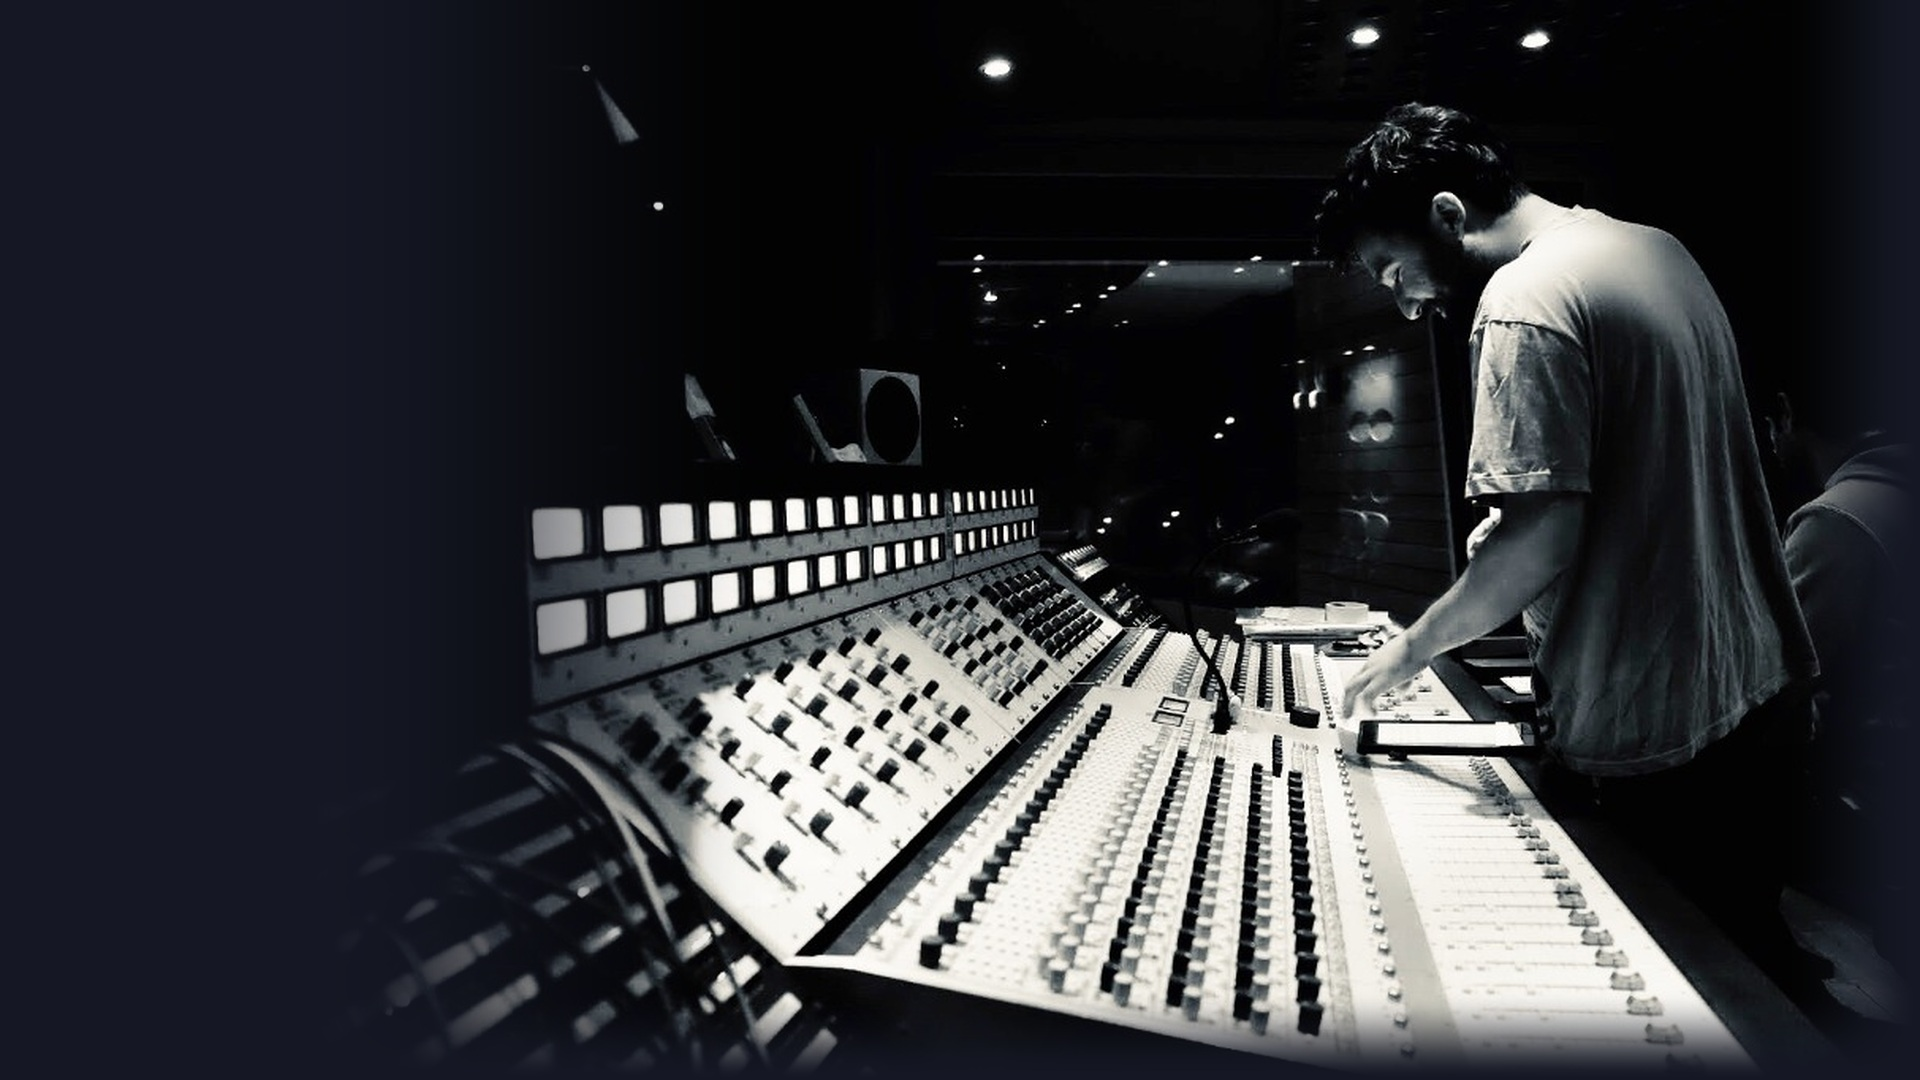
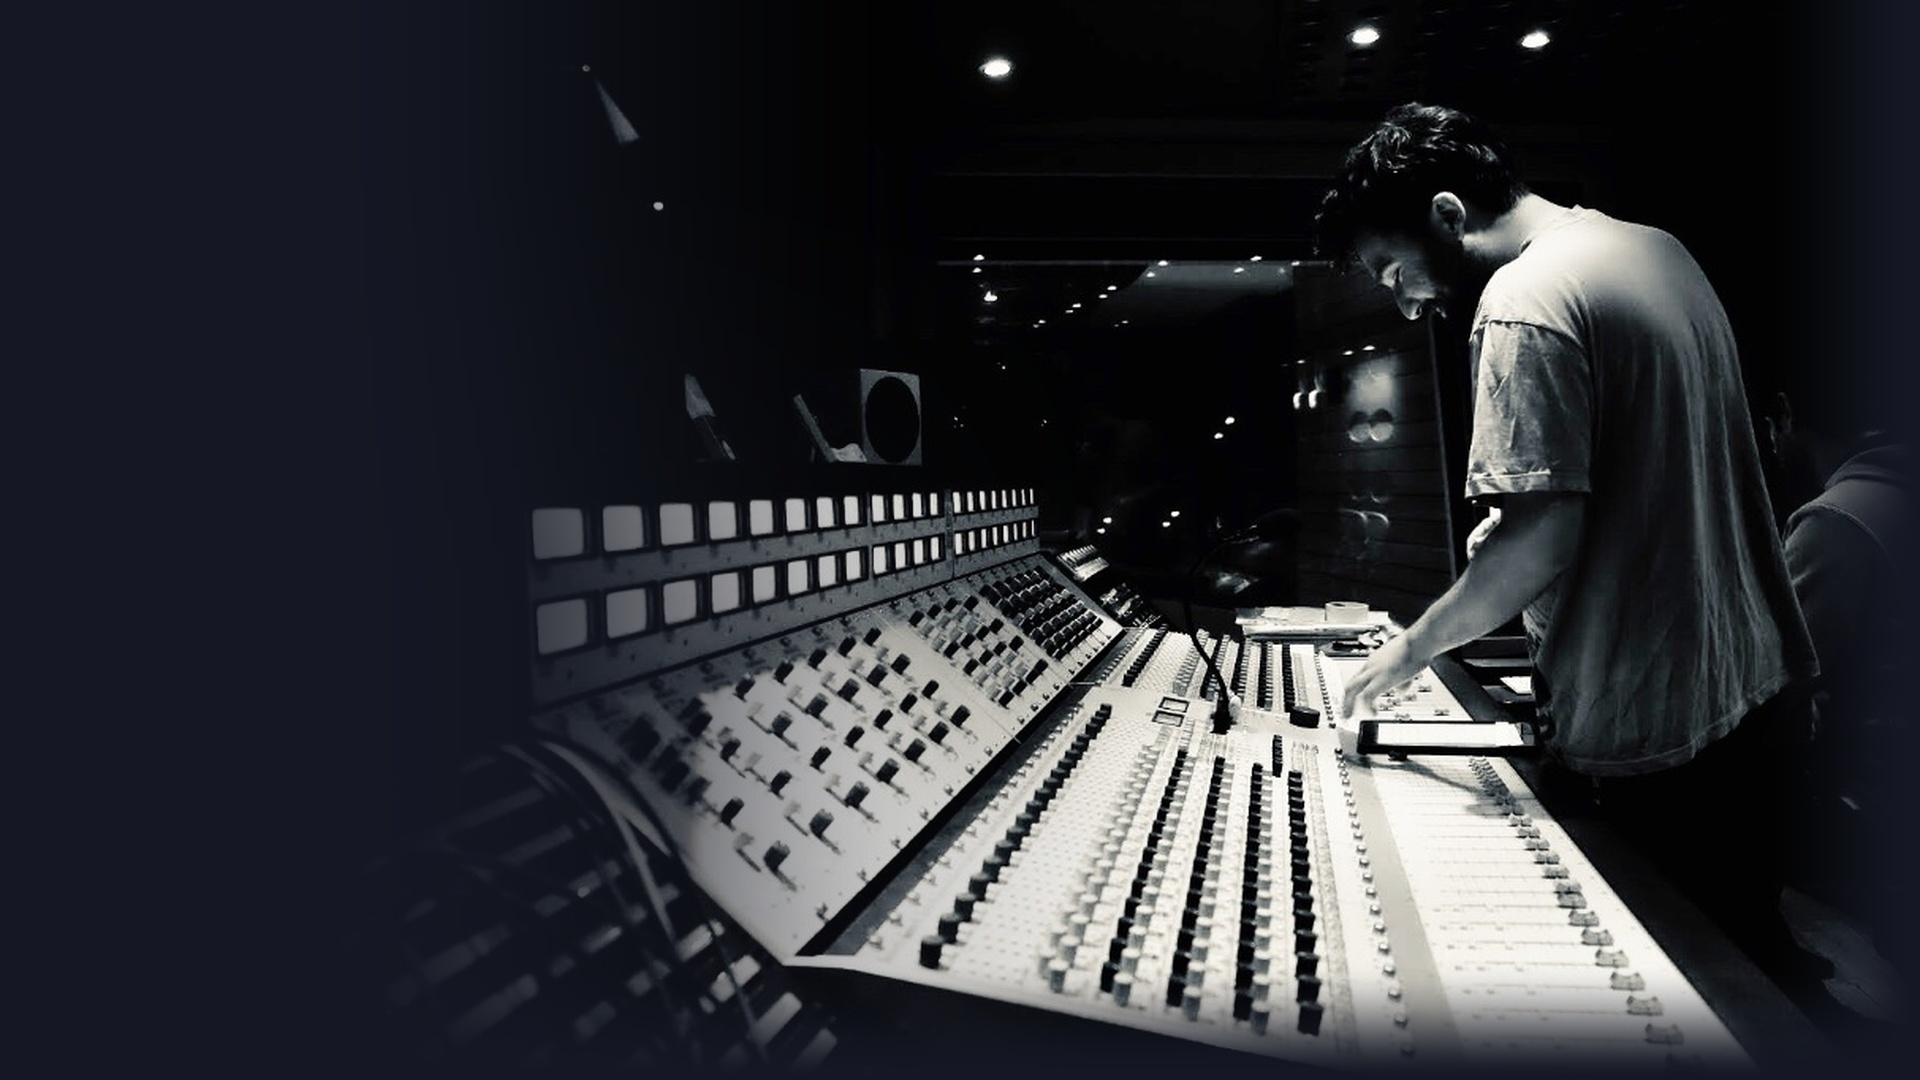
fix(hero): darken mix console under texts, add frosted glass backing for metrics, buttons and scroll indicator

Changed region(s): [[0.2188, 0.4583, 0.9062, 0.9778], [0.3438, 0.3667, 0.375, 0.3972]]

diff --git a/style.css b/style.css
@@ -1096,26 +1096,37 @@ main {
 }
 
 .btn-outline {
-  background: rgba(255, 255, 255, 0.03);
+  background: rgba(21, 24, 36, 0.75);
+  backdrop-filter: blur(10px);
+  -webkit-backdrop-filter: blur(10px);
   color: var(--text-main);
-  border-color: rgba(255, 255, 255, 0.22);
+  border-color: rgba(255, 255, 255, 0.32);
+  text-shadow: 0 1px 6px rgba(0, 0, 0, 0.8);
 }
 
 .btn-outline:hover {
   border-color: var(--accent-gold);
   color: var(--accent-gold-light);
-  background: rgba(235, 100, 52, 0.1);
+  background: rgba(235, 100, 52, 0.18);
   transform: translateY(-2px);
+  box-shadow: 0 4px 18px rgba(0, 0, 0, 0.5);
 }
 
 .btn-ghost {
-  background: transparent;
-  color: var(--text-muted);
+  background: rgba(21, 24, 36, 0.65);
+  backdrop-filter: blur(10px);
+  -webkit-backdrop-filter: blur(10px);
+  border: 1px solid rgba(255, 255, 255, 0.22);
+  color: var(--text-main);
+  text-shadow: 0 1px 6px rgba(0, 0, 0, 0.8);
 }
 
 .btn-ghost:hover {
-  color: var(--text-main);
+  color: var(--accent-gold-light);
+  border-color: var(--accent-gold);
+  background: rgba(21, 24, 36, 0.85);
   transform: translateY(-2px);
+  box-shadow: 0 4px 18px rgba(0, 0, 0, 0.5);
 }
 
 /* ==========================================================================
@@ -1169,13 +1180,25 @@ main {
   pointer-events: none;
 }
 
-/* Delicate text readability veil + bottom transition (panoramic canvas is already seamlessly blended) */
+/* Deep studio console scrim + bottom transition: ensures 100% legibility over mixing knobs & faders */
 .hero-bg-fade {
   position: absolute;
   inset: 0;
   background:
-    linear-gradient(90deg, rgba(21, 24, 36, 0.72) 0%, rgba(21, 24, 36, 0.45) 32%, transparent 65%),
-    linear-gradient(180deg, rgba(21, 24, 36, 0.25) 0%, transparent 16%, transparent 75%, var(--bg-dark) 100%);
+    linear-gradient(90deg,
+      rgba(21, 24, 36, 0.96) 0%,
+      rgba(21, 24, 36, 0.90) 36%,
+      rgba(21, 24, 36, 0.68) 56%,
+      rgba(21, 24, 36, 0.25) 75%,
+      transparent 90%
+    ),
+    linear-gradient(180deg,
+      rgba(21, 24, 36, 0.5) 0%,
+      transparent 18%,
+      rgba(21, 24, 36, 0.45) 54%,
+      rgba(21, 24, 36, 0.88) 82%,
+      var(--bg-dark) 100%
+    );
   pointer-events: none;
 }
 
@@ -1215,43 +1238,51 @@ main {
 .hero-statement {
   font-size: 1.02rem;
   line-height: 1.75;
-  color: #c8cdd6;
+  color: #dbe0ea;
   max-width: 540px;
   margin-bottom: 2.2rem;
+  text-shadow: 0 2px 14px rgba(0, 0, 0, 0.85);
 }
 
 .hero-actions {
   display: flex;
   flex-wrap: wrap;
   gap: 1rem;
-  margin-bottom: 3rem;
+  margin-bottom: 2.6rem;
 }
 
 .hero-metrics {
   display: grid;
   grid-template-columns: repeat(4, 1fr);
   gap: 1.5rem;
-  padding-top: 1.75rem;
-  border-top: 1px solid rgba(255, 255, 255, 0.12);
-  max-width: 560px;
+  padding: 1.35rem 1.6rem;
+  background: rgba(21, 24, 36, 0.65);
+  backdrop-filter: blur(12px);
+  -webkit-backdrop-filter: blur(12px);
+  border: 1px solid rgba(255, 255, 255, 0.12);
+  border-radius: var(--radius-md);
+  max-width: 580px;
+  box-shadow: 0 14px 34px -8px rgba(0, 0, 0, 0.6);
 }
 
 .metric-num {
   display: block;
   font-family: var(--font-heading);
-  font-size: 1.6rem;
+  font-size: 1.65rem;
   font-weight: 800;
   color: var(--accent-gold-light);
   letter-spacing: 0;
+  text-shadow: 0 2px 10px rgba(0, 0, 0, 0.9);
 }
 
 .metric-label {
   display: block;
-  font-size: 0.72rem;
-  font-weight: 600;
-  color: var(--text-muted);
-  letter-spacing: 0.06em;
+  font-size: 0.74rem;
+  font-weight: 700;
+  color: #e4e9f2;
+  letter-spacing: 0.08em;
   text-transform: uppercase;
+  text-shadow: 0 1px 6px rgba(0, 0, 0, 0.85);
 }
 
 
@@ -1274,7 +1305,14 @@ main {
   flex-direction: column;
   align-items: center;
   gap: 0.45rem;
-  color: var(--text-muted);
+  padding: 0.55rem 1.25rem 0.65rem;
+  background: rgba(21, 24, 36, 0.72);
+  backdrop-filter: blur(12px);
+  -webkit-backdrop-filter: blur(12px);
+  border: 1px solid rgba(255, 255, 255, 0.14);
+  border-radius: var(--radius-pill);
+  box-shadow: 0 10px 28px -6px rgba(0, 0, 0, 0.55);
+  color: var(--text-main);
   transition: var(--transition-smooth);
 }
 
@@ -1284,6 +1322,8 @@ main {
   font-weight: 700;
   letter-spacing: 0.16em;
   text-transform: uppercase;
+  color: #e4e9f2;
+  text-shadow: 0 1px 6px rgba(0, 0, 0, 0.8);
 }
 
 .oa-scroll-line {
@@ -1334,8 +1374,19 @@ main {
   }
   .hero-bg-fade {
     background:
-      linear-gradient(90deg, rgba(21, 24, 36, 0.8) 0%, rgba(21, 24, 36, 0.55) 45%, transparent 75%),
-      linear-gradient(180deg, rgba(21, 24, 36, 0.25) 0%, transparent 14%, transparent 72%, var(--bg-dark) 100%);
+      linear-gradient(90deg,
+        rgba(21, 24, 36, 0.96) 0%,
+        rgba(21, 24, 36, 0.90) 45%,
+        rgba(21, 24, 36, 0.65) 70%,
+        transparent 92%
+      ),
+      linear-gradient(180deg,
+        rgba(21, 24, 36, 0.5) 0%,
+        transparent 16%,
+        rgba(21, 24, 36, 0.45) 55%,
+        rgba(21, 24, 36, 0.88) 80%,
+        var(--bg-dark) 100%
+      );
   }
 }
 
@@ -1353,7 +1404,12 @@ main {
   }
   .hero-bg-fade {
     background:
-      linear-gradient(180deg, rgba(21, 24, 36, 0.2) 0%, rgba(21, 24, 36, 0.6) 26%, var(--bg-dark) 48%, var(--bg-dark) 100%);
+      linear-gradient(180deg,
+        rgba(21, 24, 36, 0.25) 0%,
+        rgba(21, 24, 36, 0.72) 26%,
+        var(--bg-dark) 48%,
+        var(--bg-dark) 100%
+      );
   }
   .hero-metrics {
     grid-template-columns: repeat(2, 1fr);

diff --git a/index.html b/index.html
@@ -37,7 +37,7 @@
   <link rel="preconnect" href="https://fonts.gstatic.com" crossorigin>
   <link href="https://fonts.googleapis.com/css2?family=Montserrat:ital,wght@0,400;0,500;0,600;0,700;0,800;1,500&family=Playfair+Display:ital,wght@0,400;1,400&display=swap" rel="stylesheet">
 
-  <link rel="stylesheet" href="style.css?v=12">
+  <link rel="stylesheet" href="style.css?v=13">
 
   <!-- Structured Data (Schema.org JSON-LD) -->
   <script type="application/ld+json">
@@ -280,7 +280,7 @@
     <!-- 01 // HERO SECTION (full-bleed photo dissolving into the background) -->
     <section id="hero" class="hero-section" data-section-title="01 // HOME">
       <div class="hero-backdrop" aria-hidden="true">
-        <img src="assets/images/hero_studio_wide.jpg?v=20261024" alt="Erkan Zeki Ar mixing at analog sound console" class="hero-bg-img" loading="eager" fetchpriority="high">
+        <img src="assets/images/hero_studio_wide.jpg?v=20261024_dark" alt="Erkan Zeki Ar mixing at analog sound console" class="hero-bg-img" loading="eager" fetchpriority="high">
         <div class="hero-bg-tint"></div>
         <div class="hero-bg-fade"></div>
       </div>
@@ -1760,6 +1760,6 @@
     </div>
   </footer>
 
-  <script src="script.js?v=12"></script>
+  <script src="script.js?v=13"></script>
 </body>
 </html>
